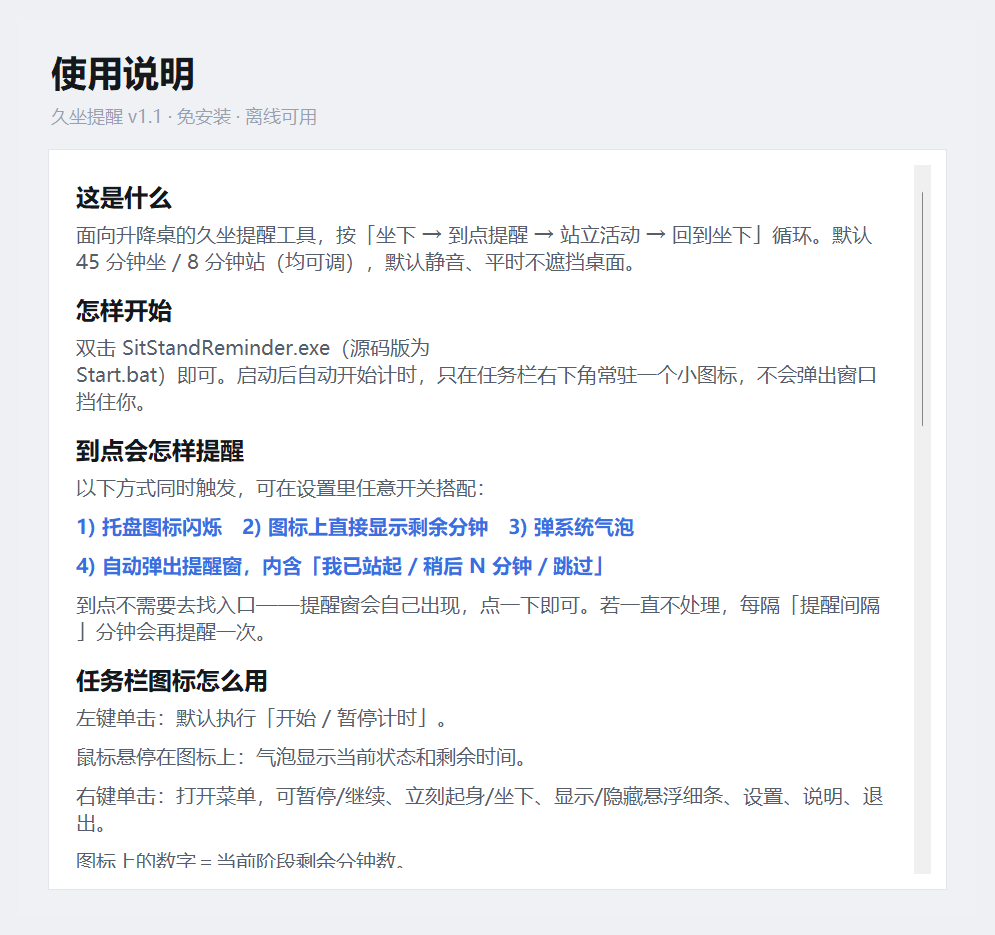
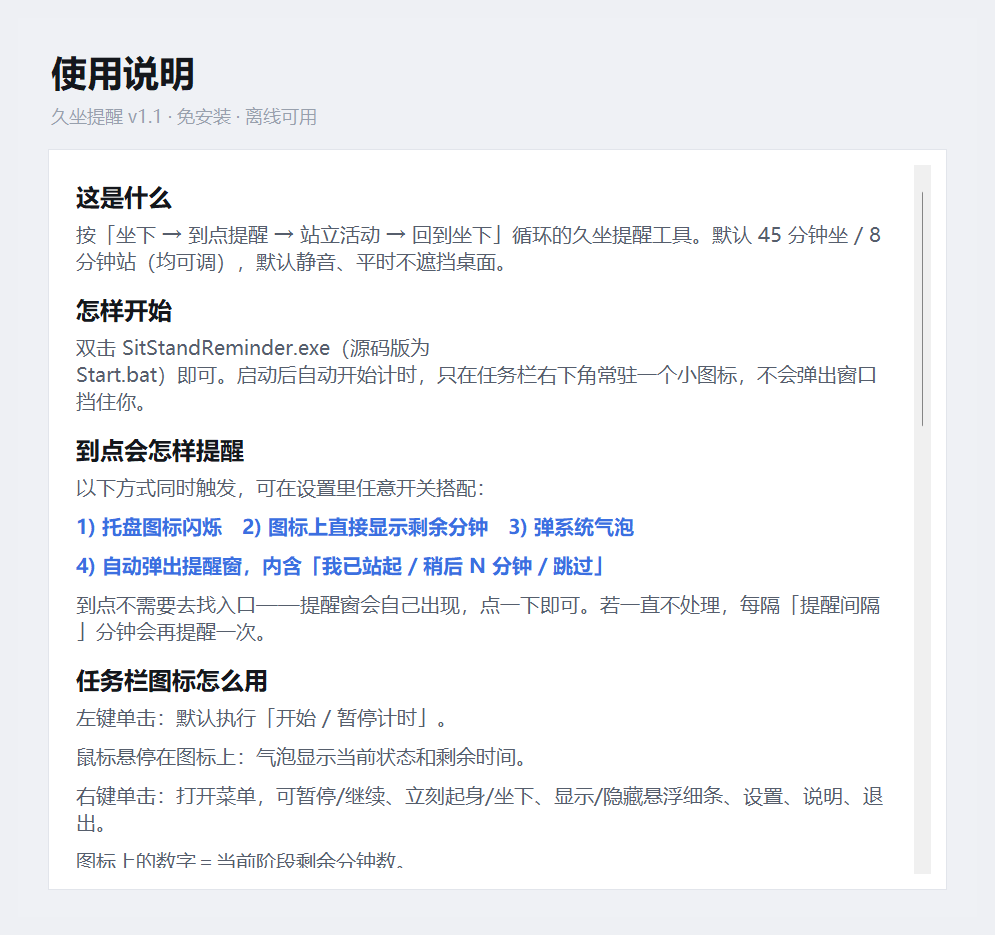
chore: 去掉「升降桌」字眼，仅称「久坐提醒」
项目定位统一：一写「升降桌」就把适用范围框死了，它本身是个通用的久坐提醒，
升降桌只是其中一种使用场景。

改动 4 处（全部在 src/sitstand.py）：
- 文件头 docstring 标题与说明
- APP_TITLE："久坐提醒 · 升降桌" -> "久坐提醒"
  （会显示在消息框、设置窗标题栏、托盘提示上）
- 帮助窗「这是什么」段落文案

连带重出 previews/help.png（帮助窗文案变了）。
同步更新 dist/README.txt（便携版说明，内含同样的字眼，且更新为试管样式描述）。

另：SitStandReminder-portable.zip 加入 .gitignore —— 19.7MB 的构建产物
走 Release 分发，不进仓库历史。

Changed region(s): [[0.0623, 0.2171, 0.8724, 0.3102]]

diff --git a/src/sitstand.py b/src/sitstand.py
@@ -1,8 +1,8 @@
 # -*- coding: utf-8 -*-
 """
-久坐提醒 · 升降桌（Sit / Stand Reminder）
+久坐提醒（Sit / Stand Reminder）
 ================================================
-面向升降桌场景的久坐提醒工具：
+帮你按「坐 / 站」节奏交替的久坐提醒工具：
     坐下工作  ->  到点提醒  ->  站立活动  ->  回到坐下  ->  循环
 
 设计原则（对应需求）：
@@ -56,7 +56,7 @@ log = logging.getLogger("sitstand")
 log.info("========== 启动 (frozen=%s) ==========", getattr(sys, "frozen", False))
 
 APP_NAME = "久坐提醒"
-APP_TITLE = "久坐提醒 · 升降桌"
+APP_TITLE = "久坐提醒"
 APP_VERSION = "1.1"
 MUTEX_NAME = "Local\\SitStandReminder_9f3a1c2b"
 
@@ -2379,7 +2379,7 @@ class HelpWindow:
 
 HELP_SEGMENTS = [
     ("h", "这是什么"),
-    ("b", "面向升降桌的久坐提醒工具，按「坐下 → 到点提醒 → 站立活动 → 回到坐下」循环。"
+    ("b", "按「坐下 → 到点提醒 → 站立活动 → 回到坐下」循环的久坐提醒工具。"
           "默认 45 分钟坐 / 8 分钟站（均可调），默认静音、平时不遮挡桌面。"),
     ("h", "怎样开始"),
     ("b", "双击 SitStandReminder.exe（源码版为 Start.bat）即可。启动后自动开始计时，"
